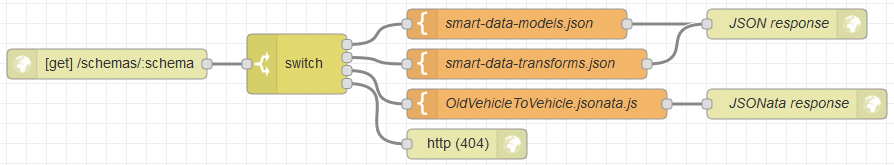
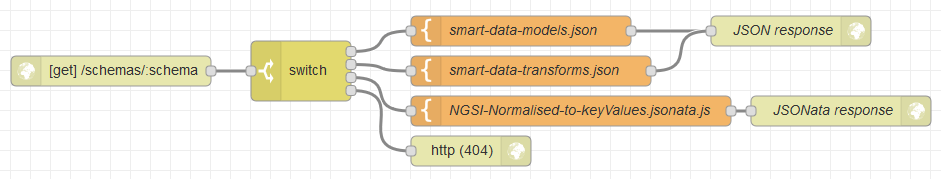
Updated readme examples
And library update

Changed region(s): [[0.0, 0.0303, 0.9966, 0.9697]]

diff --git a/README.md b/README.md
@@ -439,11 +439,13 @@ Any HTTP server can be used to host those documents. This can also be done using
 
 ### Local Node-RED hosting
 
-The same Node-RED instance can be used to host the various lists and custom schemas.
+The same Node-RED instance can be used to host the various lists and custom schemas, which are then accessible via `http://localhost:1880/*`
 
 Here is an example of full Node-RED flow: [Node-RED_example_of_HTTP_flow.json](examples/Node-RED_example_of_HTTP_flow.json)
 
 ![Node-RED flow](examples/Node-RED_example_of_HTTP_flow.png)
+
+In this example, the schemas are published at `http://localhost:1880/schemas/example.json` where `example.json` is the filename.
 
 Read more on the [Node-RED cookbook](https://cookbook.nodered.org/http/serve-json-content).
 
@@ -456,7 +458,9 @@ Read more on the [Node-RED cookbook](https://cookbook.nodered.org/http/serve-jso
 ## Caching of schemas
 
 A disk copy of the downloaded JSON and JSONata documents is kept in cache on disk.
+There is a distinct disk cache copy for each node instance.
+
 By default, the cache path is `/tmp/` but that can be changed with the environment variable `SCHEMAS_CACHE_PATH`
 Cached files have a `schema.[URL hash].[Node ID].tmp.js` format.
 
-If schemas are updated without changing their URL, it is possible to either purge the local cache manually, or add a version number at the end of their URL, such as `https://example.net/a-schema.json?v2`
+If schemas are updated without changing their URL, it is possible to either alter the URL slightly (like `https://example.net/a-schema.json?v2`), delete and recreate the node (so that the node gets a new ID), or purge the local disk cache manually (in which case it is necessary to restart Node-RED to clear the memory cache).
